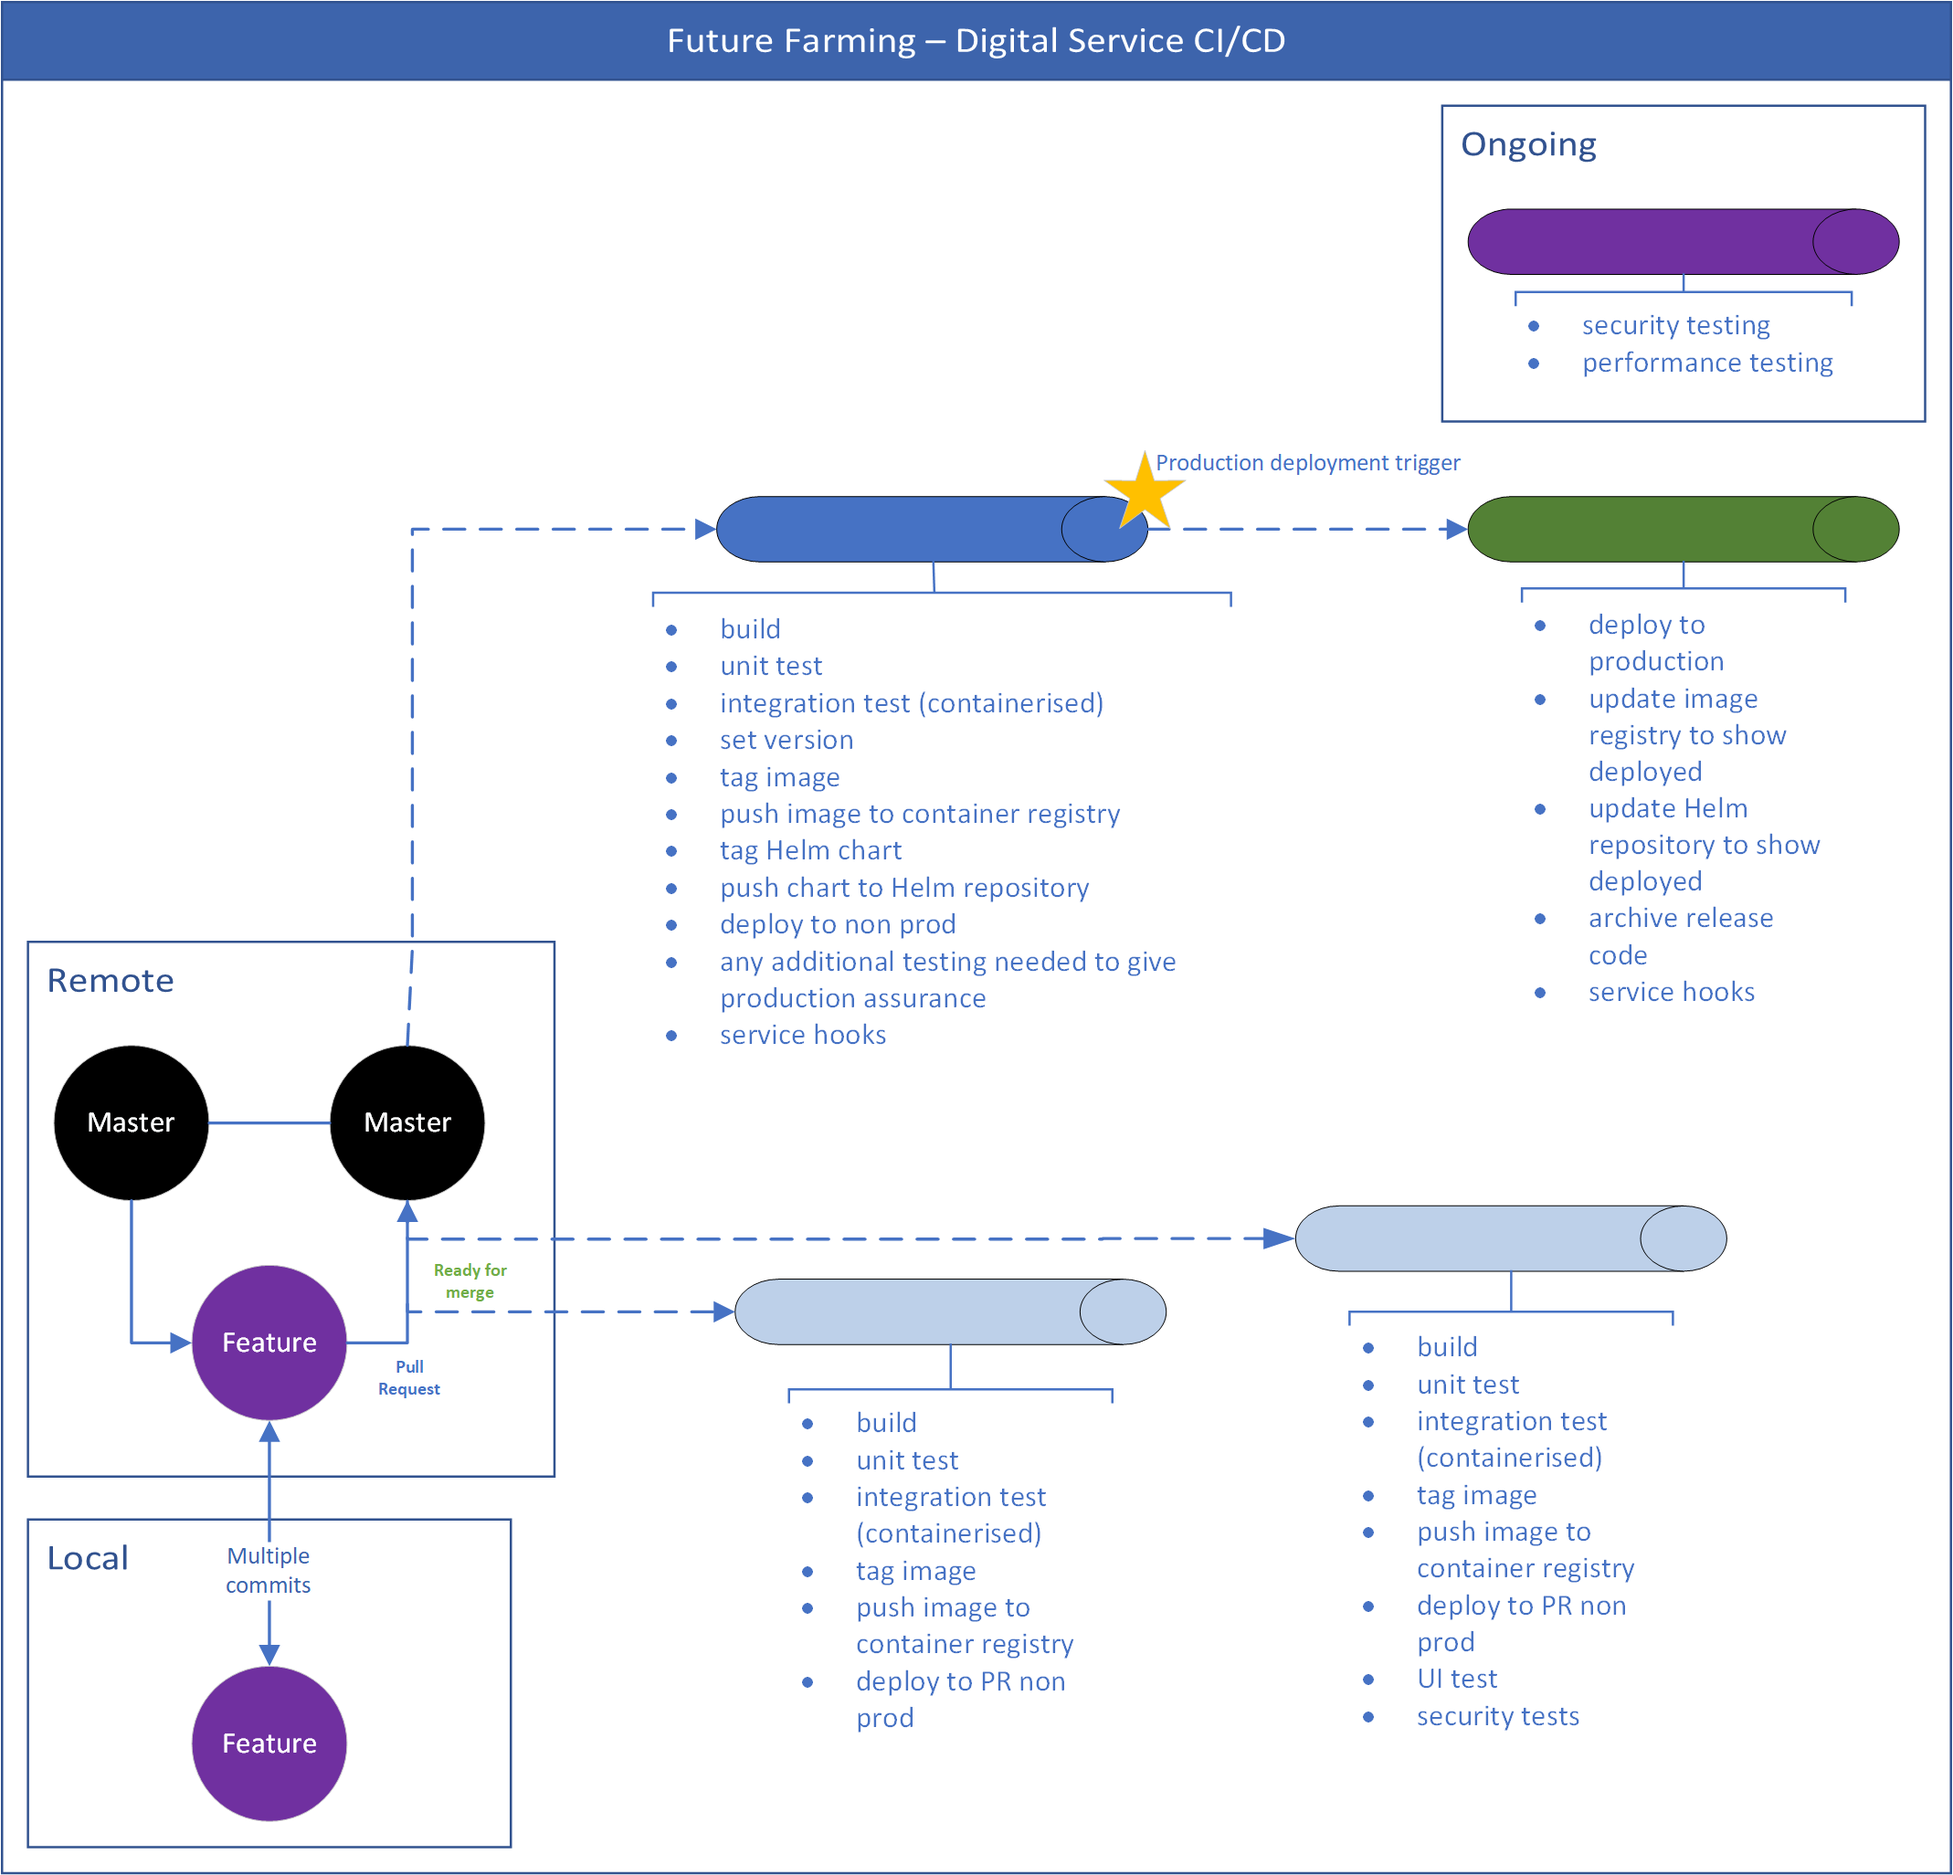
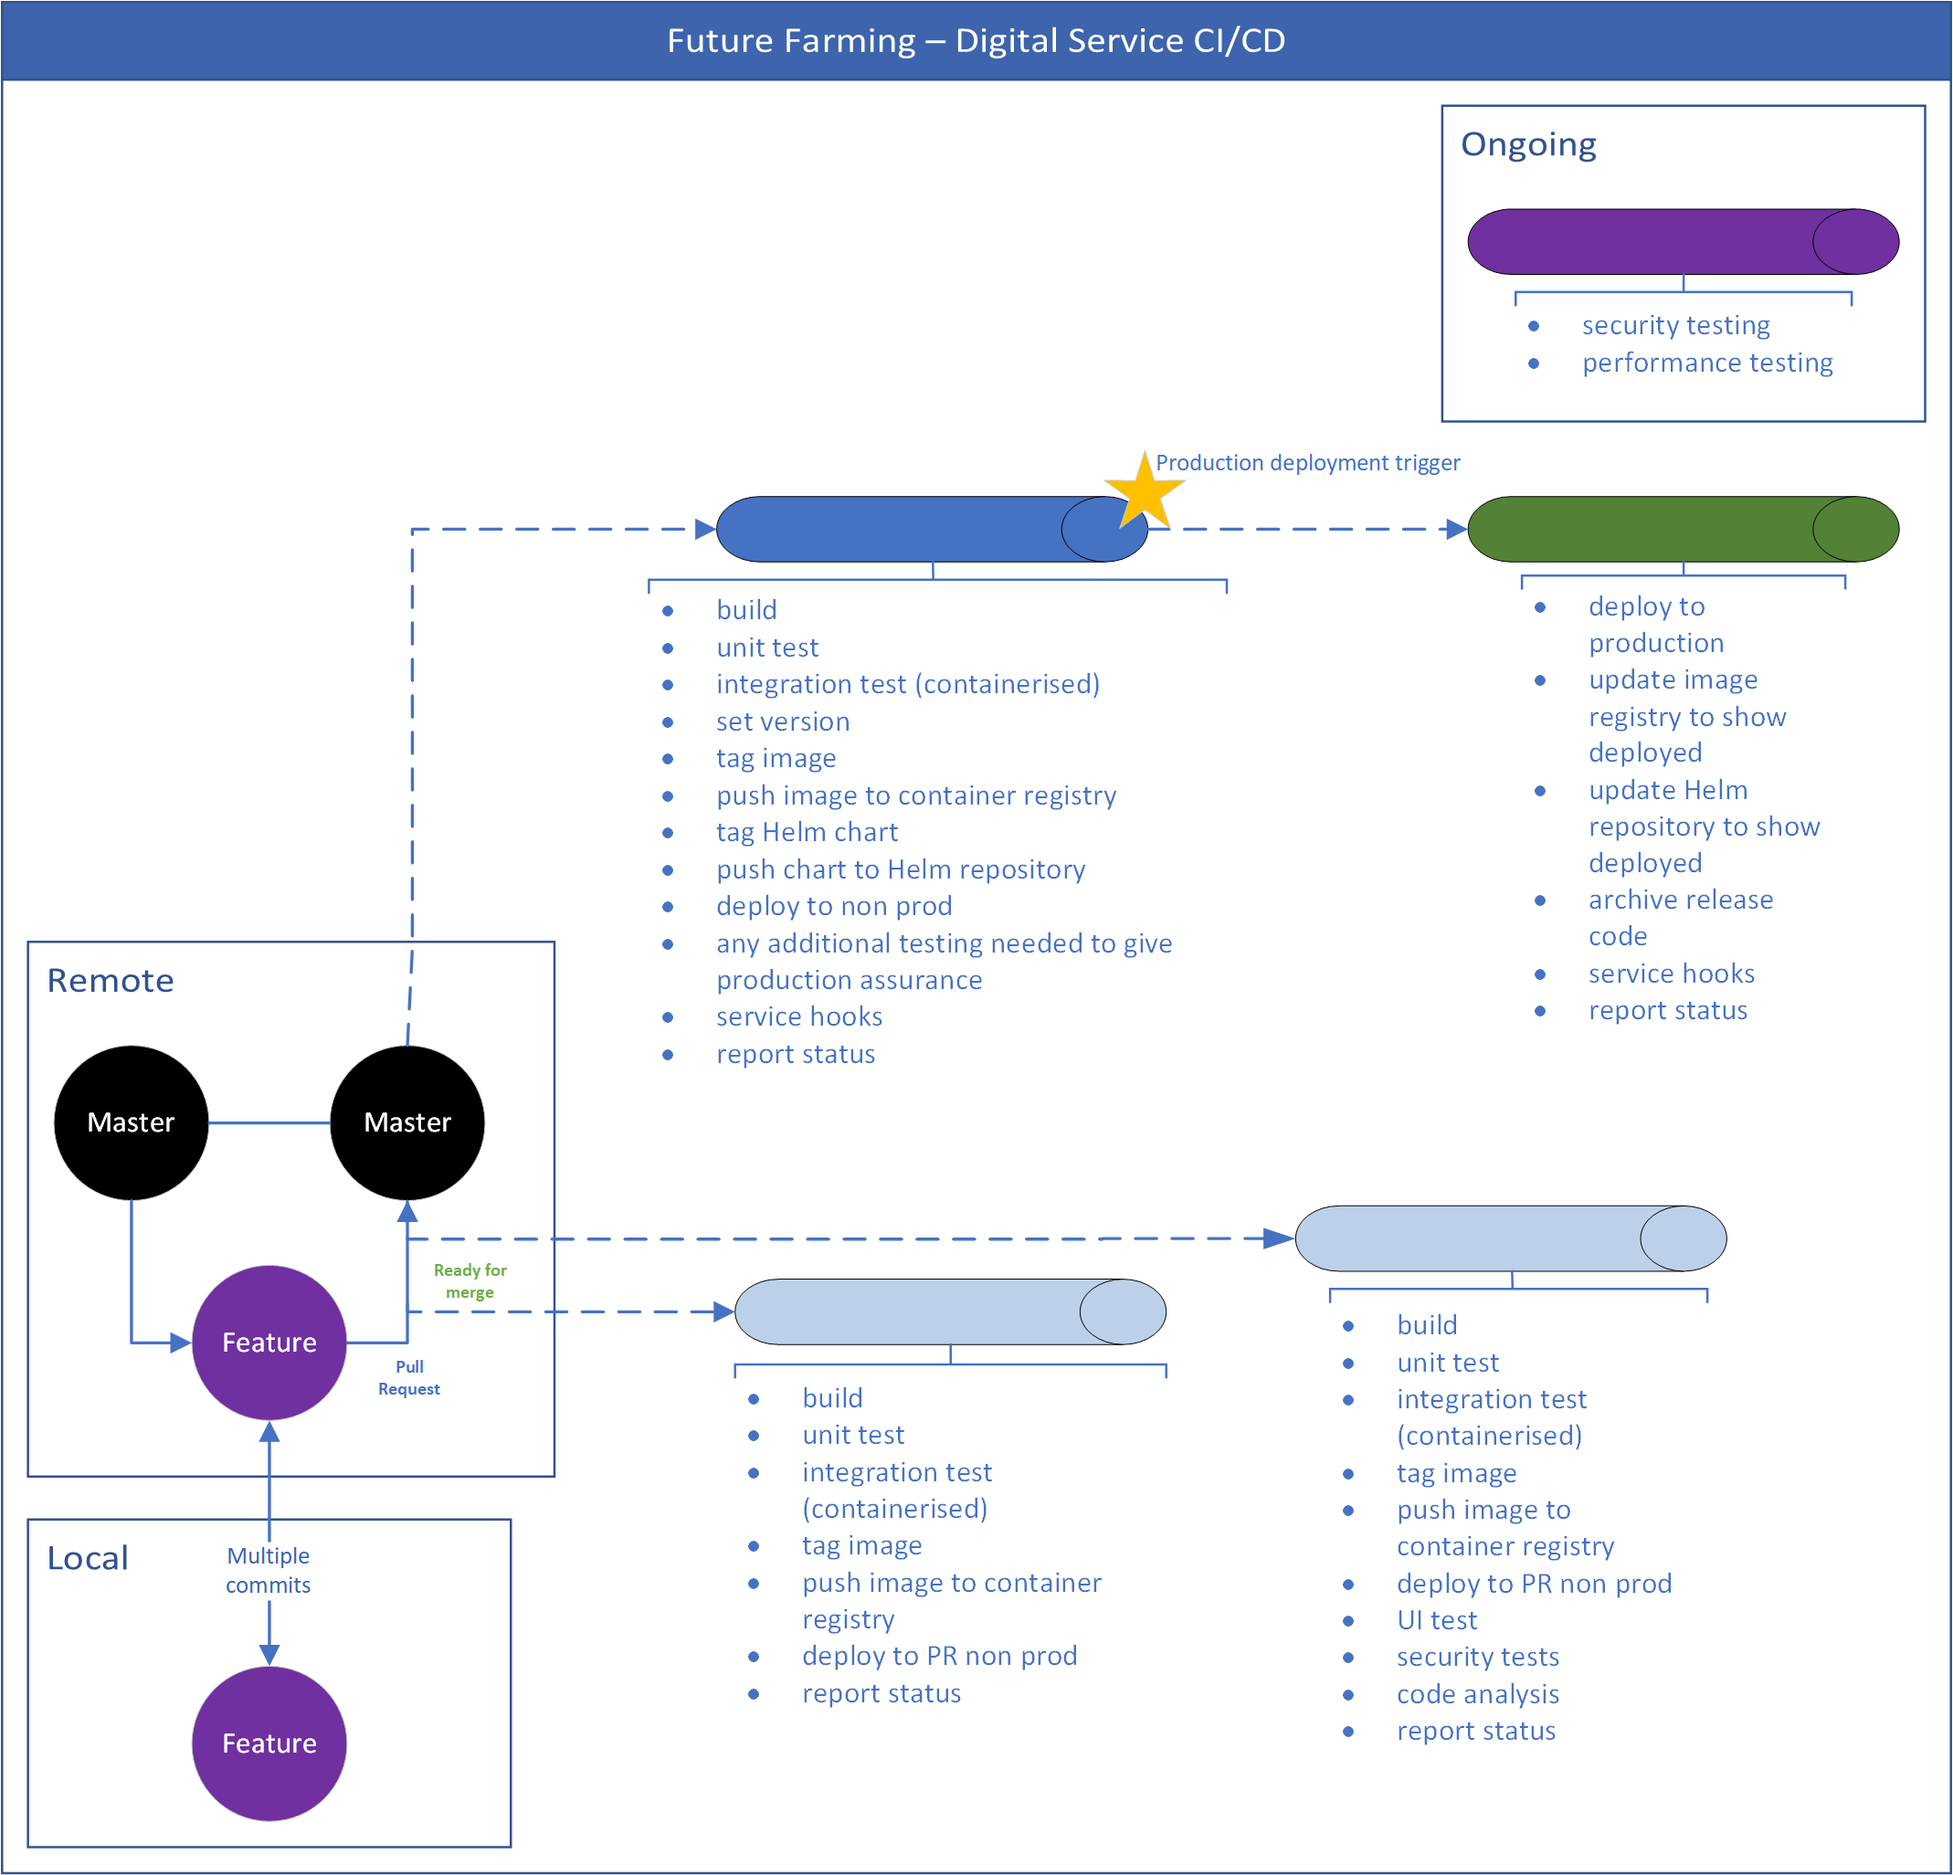
CI/CD pipeline draft updated following initial feedback from development community
https://eaflood.atlassian.net/browse/PSD-298

diff --git a/docs/cicd/index.md b/docs/cicd/index.md
@@ -12,10 +12,20 @@ The below diagrams show the current design for a CI/CD pipeline that embraces a 
 
 Each pipeline specified could be made up of multiple Jenkinsfiles.
 
-## Pull Request pipeline
-Following creation of and on update to a Pull request, the PR pipeline should run automatically.
+## Pull Request pipelines
+Following creation of and on update to a Pull request, the PR pipeline should run automatically.  There will actually be two PR pipelines, the first will run on every push to remote, whilst the second will run prior to any merge to master.  A tag will be added to the branch to allow Jenkins to understand which pipeline to run.
 
-### Pipeline steps
+### Pipeline steps (1)
+- build the service
+- run unit tests
+- run containerised integration tests
+- run code quality tests
+- tag container image
+- push image to container registry
+- deploy to non-production PR environment
+- report build status
+
+### Pipeline steps (2)
 - build the service
 - run unit tests
 - run containerised integration tests
@@ -24,12 +34,13 @@ Following creation of and on update to a Pull request, the PR pipeline should ru
 - push image to container registry
 - deploy to non-production PR environment
 - run UI tests
+- run security tests
 - report build status
 
 A failed PR build must prevent the PR from completing.
 
 ## Build pipeline
-Following merge to the master branch, the build pipeline should run automatically.
+Following merge to the master branch, the build pipeline should run automatically.  The purpose of this pipeline is to provide assurance that the service is production ready.
 
 ### Pipeline steps
 - build the service
@@ -70,4 +81,9 @@ Depending on the service, the trigger for a release pipeline could be:
 - run service hooks
 - report release status
 
+## Ongoing pipeline
+This pipeline will run on a regular basis to provide ongoing assurance regarding the quality and integrity of production services.
 
+### Pipeline steps
+- run performance tests
+- run security tests
